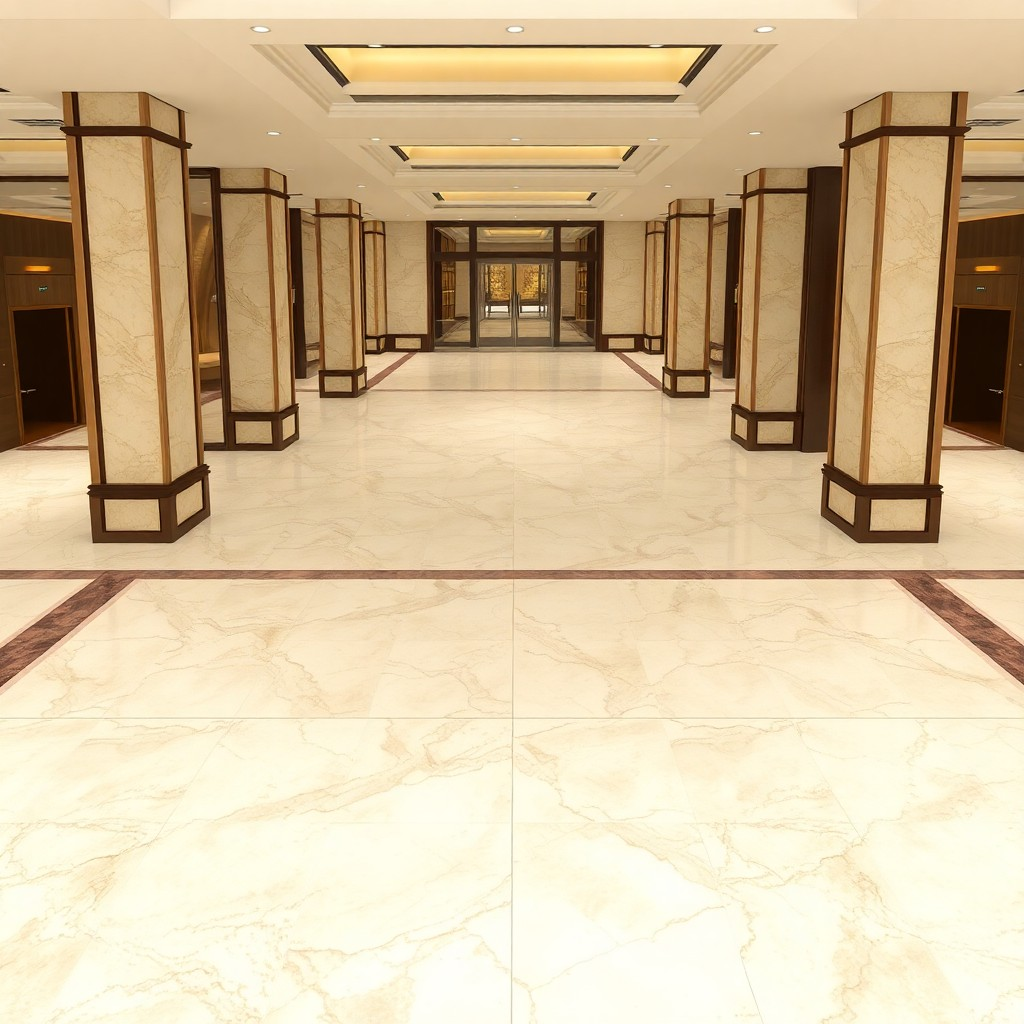
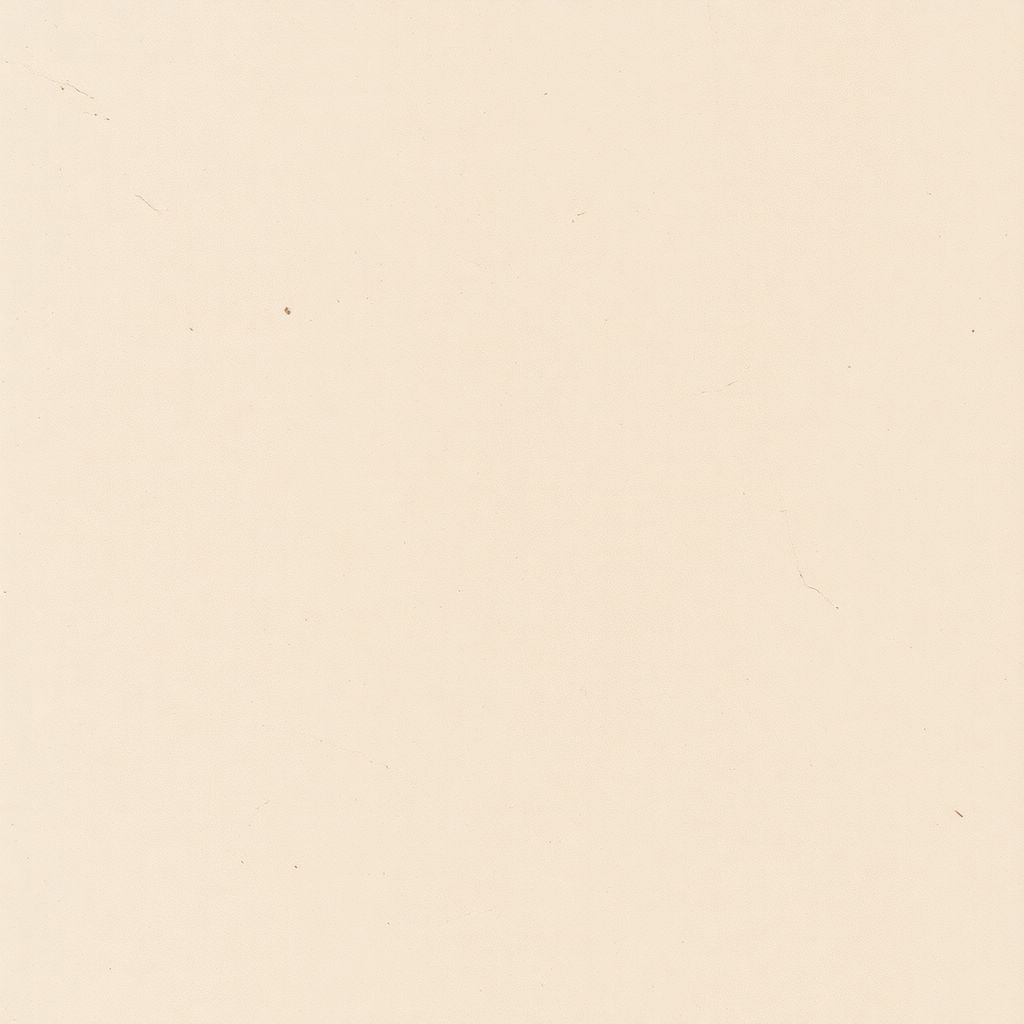
Hotel Dino Blu: cierre de bloqueantes legales (auditoría) antes de publicar
- B1: eliminadas imágenes de referencia de terceros (fichas de catálogo de uniforme + diseño de avatar) que no usaba el juego
- B2: regeneradas marble.jpg y carpet.jpg como texturas seamless propias (Replicate Flux); documentado el origen de todos los assets en assets/CREDITS.md
- Añadido disclaimer de ficción localizado (es/en/it) en la pantalla de inicio

diff --git a/hotel-dino-blu/i18n.js b/hotel-dino-blu/i18n.js
@@ -145,6 +145,7 @@ const DICTS = {
     shareRecord: '🏆 ¡NUEVO RÉCORD!',
     shareText: (score, stars) => `¡He sacado ${score} puntos y ${stars}⭐ en Hotel Dino Blu! ¿Puedes superarme? 🧹`,
     shareSaved: '📸 Imagen guardada — ¡súbela y etiqueta @glitchrush.gg!',
+    disclaimer: 'Obra de ficción. El Hotel Dino Blu, sus personajes y su personal son inventados; cualquier parecido con establecimientos o personas reales es casual.',
 
     sheetTitle: '🗒 Tu parte de trabajo — Piso 2',
     sheetCols: ['Hab.', 'Estado', 'Huéspedes', 'Noche', 'Sábanas'],
@@ -314,6 +315,7 @@ const DICTS = {
     shareRecord: '🏆 NEW RECORD!',
     shareText: (score, stars) => `I scored ${score} points and ${stars}⭐ in Hotel Dino Blu! Can you beat me? 🧹`,
     shareSaved: '📸 Image saved — post it and tag @glitchrush.gg!',
+    disclaimer: 'A work of fiction. Hotel Dino Blu, its characters and staff are invented; any resemblance to real establishments or people is coincidental.',
 
     sheetTitle: '🗒 Your work sheet — Floor 2',
     sheetCols: ['Room', 'Status', 'Guests', 'Night', 'Sheets'],
@@ -483,6 +485,7 @@ const DICTS = {
     shareRecord: '🏆 NUOVO RECORD!',
     shareText: (score, stars) => `Ho fatto ${score} punti e ${stars}⭐ in Hotel Dino Blu! Riesci a battermi? 🧹`,
     shareSaved: '📸 Immagine salvata — pubblicala e tagga @glitchrush.gg!',
+    disclaimer: 'Opera di finzione. L\'Hotel Dino Blu, i suoi personaggi e il suo personale sono inventati; ogni somiglianza con strutture o persone reali è casuale.',
 
     sheetTitle: '🗒 Il tuo rapporto di lavoro — 2º piano',
     sheetCols: ['Cam.', 'Stato', 'Ospiti', 'Notte', 'Lenzuola'],

diff --git a/hotel-dino-blu/style.css b/hotel-dino-blu/style.css
@@ -249,6 +249,9 @@ button {
 .bigbtn.alt { background: #5d6b78; }
 .bigbtn.alt:hover { background: #6c7c8a; }
 
+/* aviso de ficción (legal) en la pantalla de inicio */
+#disclaimer { font-size: 11px; opacity: 0.55; margin-top: 12px; line-height: 1.4; text-align: center; }
+
 /* combo flotante (🔥 xN) — feedback vivo al encadenar tareas */
 #combo {
   position: absolute; top: 86px; left: 50%; transform: translateX(-50%);

diff --git a/hotel-dino-blu/game.js b/hotel-dino-blu/game.js
@@ -2245,6 +2245,7 @@ function applyIntroTexts() {
   $('deskHelp').innerHTML = S.desktopHelp;
   $('touchHelp').innerHTML = S.touchHelp;
   $('btnStart').textContent = S.start;
+  $('disclaimer').textContent = S.disclaimer;
   $('castTitle').textContent = S.castTitle;
   $('cast').innerHTML = S.cast.map(c =>
     `<figure><img src="assets/housekeper/${c.img}.png" alt="${c.name}" loading="lazy">` +

diff --git a/hotel-dino-blu/index.html b/hotel-dino-blu/index.html
@@ -78,6 +78,7 @@
         </div>
 
         <button id="btnStart">🧹 …</button>
+        <p id="disclaimer"></p>
       </div>
     </div>
 

diff --git a/hotel-dino-blu/assets/CREDITS.md b/hotel-dino-blu/assets/CREDITS.md
@@ -1,0 +1,36 @@
+# Créditos y procedencia de los assets — Hotel Dino Blu
+
+Todos los recursos visuales y sonoros de este juego son **propios, generados por IA por
+el estudio, de dominio público (CC0) o sintetizados por código**. No se incluye material
+con copyright de terceros.
+
+## Imágenes generadas por IA (propiedad de GlitchRushGG)
+
+Generadas por el estudio con **Replicate** (cuenta `glitchrushgg`), uso comercial permitido
+por los términos de los modelos:
+
+- **Texturas** — `assets/tex/*.jpg` (marble, carpet, parquet, tile, cotto, bedspread,
+  sea, sand, grass, paving): generadas con `black-forest-labs/flux-schnell` como texturas
+  planas/tileables (prompts de "seamless tileable material swatch, top-down").
+  `marble.jpg` y `carpet.jpg` regeneradas el 2026-06-17 como texturas sin costuras.
+- **Avatares del personal** — `assets/housekeper/*.png` (sofia, anna, giulia, marco,
+  carmela, lucia, + sus `*-cut.png` recortados): figuras estilizadas de ficción,
+  generadas con `black-forest-labs/flux-1.1-pro` y `google/nano-banana`; recortes de
+  fondo con `cjwbw/rembg`. No representan a personas reales.
+- **Portada** — `assets/cover.jpg`: generada con Replicate (Flux).
+
+## Modelos 3D (dominio público — CC0)
+
+- `assets/models/*.glb` (plant, lamp, floorlamp, armchair, sofa, painting): de
+  **Poly Pizza** (https://poly.pizza), licencia **CC0 / dominio público**.
+
+## Audio
+
+- Música ambiente y tarantela + efectos: **100 % sintetizados** con la Web Audio API en
+  `game.js` (sin samples ni grabaciones de terceros).
+
+## Ambientación
+
+- **Hotel Dino Blu** es un establecimiento **de ficción**. Cualquier parecido con hoteles
+  o personas reales es casual. La localización (Praia a Mare, Isola di Dino) usa topónimos
+  y geografía reales, que no son apropiables.
